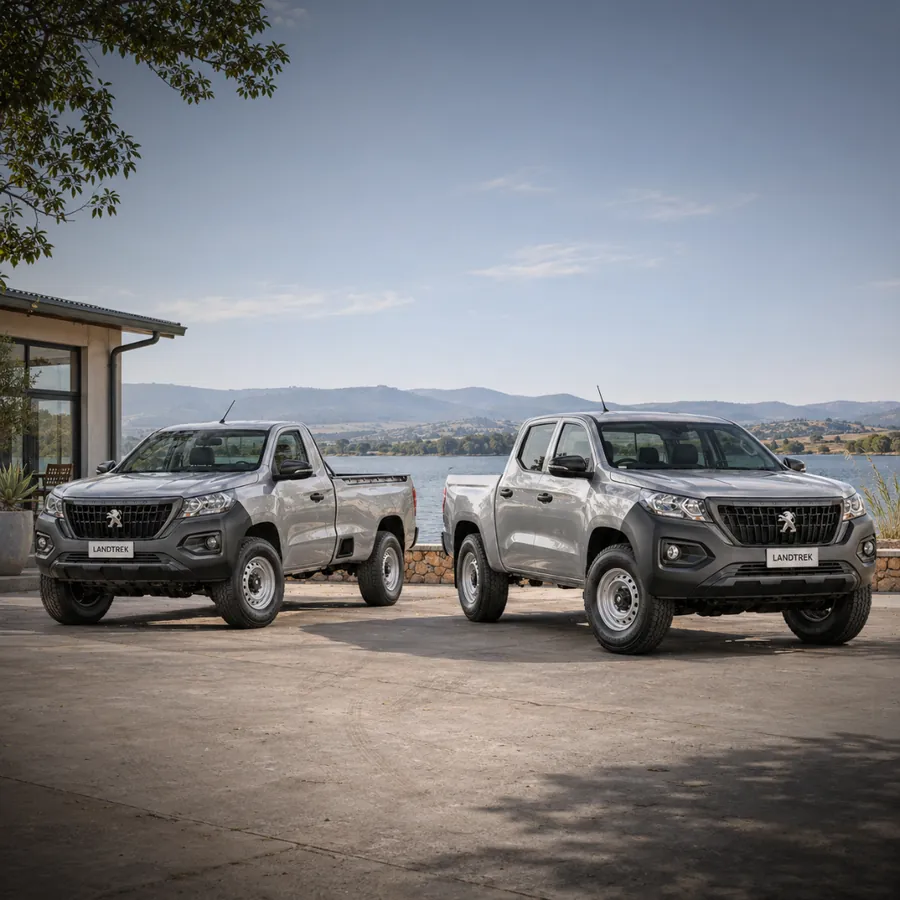
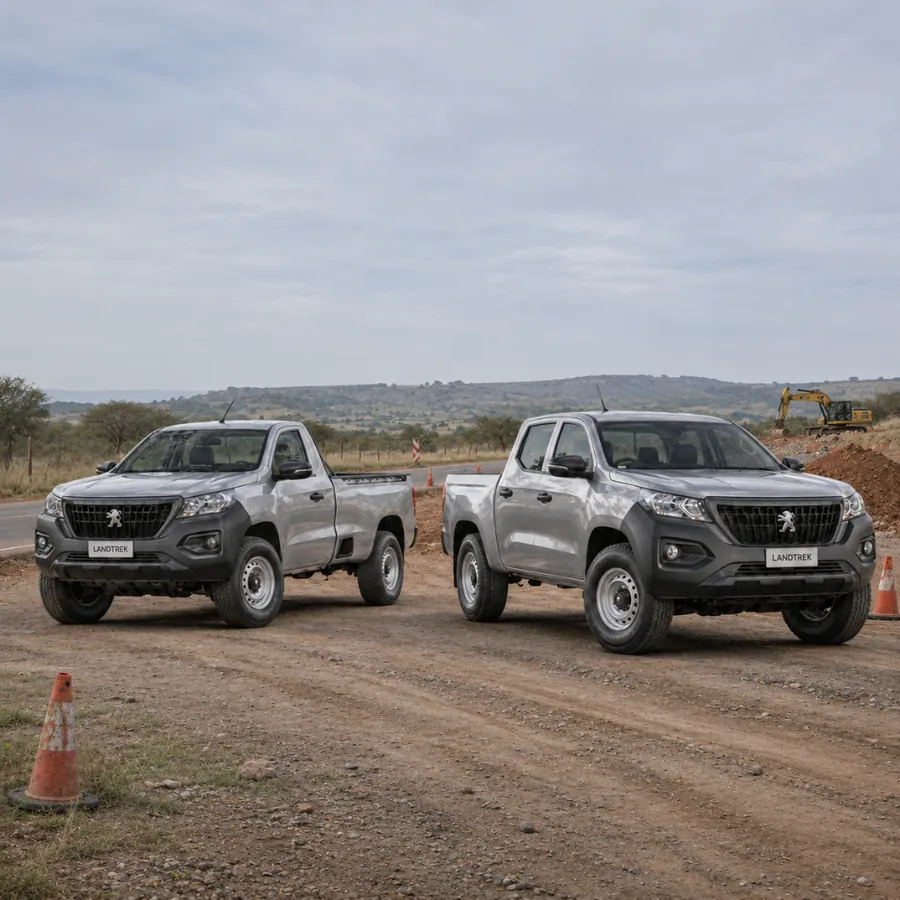
Instalment-led specials show the instalment only everywhere; new Landtrek photo (staging only)
- Aircross Max, C3 Max automatic, Basalt Max, Wrangler Sahara: no purchase price on the slide, card, vehicle page or Google data (special and listing)
- Landtrek specials: new rugged-landscape photo
- Grandland GS Line: Guaranteed Future Value strip carries the 48-month terms
- WhatsApp message no longer quotes a price for a car that shows none

Claude-Session: https://claude.ai/code/session_01FcTL7FakMvcebuqQoa1UVj

diff --git a/index.html b/index.html
@@ -2373,6 +2373,7 @@ html .cc{--cc-font:var(--font);--cc-title-font:var(--display);--cc-title-weight:
       "transmission": "Automatic",
       "fuel": "Petrol",
       "price": 386500,
+      "hidePrice": true,
       "priceMode": "fixed",
       "images": [
         "cars/citroen-aircross-max-0",
@@ -2444,6 +2445,7 @@ html .cc{--cc-font:var(--font);--cc-title-font:var(--display);--cc-title-weight:
       "transmission": "Automatic",
       "fuel": "Petrol",
       "price": 317900,
+      "hidePrice": true,
       "priceMode": "fixed",
       "images": [
         "cars/citroen-c3-max-at-0",
@@ -2514,6 +2516,7 @@ html .cc{--cc-font:var(--font);--cc-title-font:var(--display);--cc-title-weight:
       "transmission": "Automatic",
       "fuel": "Petrol",
       "price": 369900,
+      "hidePrice": true,
       "priceMode": "fixed",
       "images": [
         "cars/citroen-basalt-max-0",
@@ -2561,8 +2564,8 @@ html .cc{--cc-font:var(--font);--cc-title-font:var(--display);--cc-title-weight:
       "promo": {
         "style": "split-rev",
         "image": "site/special-dec26-landtrek",
-        "focus": "50% 55%",
-        "focusMobile": "50% 58%",
+        "focus": "50% 62%",
+        "focusMobile": "50% 62%",
         "tint": "#ecebe8",
         "kicker": "Peugeot",
         "title": "Peugeot Landtrek",
@@ -2595,8 +2598,8 @@ html .cc{--cc-font:var(--font);--cc-title-font:var(--display);--cc-title-weight:
       "promo": {
         "style": "split",
         "image": "site/special-dec26-landtrek",
-        "focus": "50% 55%",
-        "focusMobile": "50% 58%",
+        "focus": "50% 62%",
+        "focusMobile": "50% 62%",
         "tint": "#e8ecef",
         "badge": "R30 000 accessories included",
         "kicker": "Peugeot",
@@ -2714,7 +2717,7 @@ html .cc{--cc-font:var(--font);--cc-title-font:var(--display);--cc-title-weight:
         "note": "R799 900 retail",
         "text": "Panoramic sunroof and wireless Apple CarPlay and Android Auto.",
         "terms": "Price shown includes the maximum deal assistance of R170 000. Includes a 5-year/105 000 km maintenance plan and a 5-year/100 000 km warranty. Ts and Cs apply. While stocks last.",
-        "key": "48-month Guaranteed Future Value | Available subject to finance approval"
+        "key": "48-month Guaranteed Future Value | 0% deposit, 57% guaranteed future value, 7.64% linked interest rate"
       }
     },
     {
@@ -2730,6 +2733,7 @@ html .cc{--cc-font:var(--font);--cc-title-font:var(--display);--cc-title-weight:
       "transmission": "Automatic",
       "fuel": "Petrol",
       "price": 1315900,
+      "hidePrice": true,
       "priceMode": "fixed",
       "images": [
         "cars/jeep-wrangler-sahara-0",
@@ -3536,6 +3540,7 @@ html .cc{--cc-font:var(--font);--cc-title-font:var(--display);--cc-title-weight:
       "transmission": "Automatic",
       "fuel": "Petrol",
       "price": 317900,
+      "hidePrice": true,
       "priceMode": "fixed",
       "images": [
         "cars/citroen-c3-max-at-0",
@@ -3558,6 +3563,7 @@ html .cc{--cc-font:var(--font);--cc-title-font:var(--display);--cc-title-weight:
       "transmission": "Automatic",
       "fuel": "Petrol",
       "price": 386500,
+      "hidePrice": true,
       "priceMode": "fixed",
       "images": [
         "cars/citroen-aircross-max-0",
@@ -3602,6 +3608,7 @@ html .cc{--cc-font:var(--font);--cc-title-font:var(--display);--cc-title-weight:
       "transmission": "Automatic",
       "fuel": "Petrol",
       "price": 369900,
+      "hidePrice": true,
       "priceMode": "fixed",
       "images": [
         "cars/citroen-basalt-max-0",
@@ -3645,6 +3652,7 @@ html .cc{--cc-font:var(--font);--cc-title-font:var(--display);--cc-title-weight:
       "transmission": "Automatic",
       "fuel": "Petrol",
       "price": 1315900,
+      "hidePrice": true,
       "priceMode": "fixed",
       "images": [
         "cars/jeep-wrangler-sahara-0",
@@ -4810,7 +4818,7 @@ const R = (n, cents=false) => {
 const condLabel = c => ({new:'New', demo:'Demo', used:'Pre-owned'})[c];
 const isPOA = v => v.priceMode === 'poa';
 /* Dec 2026: PR = price with the car's own label (v.priceNote, e.g. "excl. VAT"); hasPrice is false for a fixed offer whose retail price is not known yet */
-const hasPrice = v => !isPOA(v) && v.price > 0;
+const hasPrice = v => !isPOA(v) && v.price > 0 && !v.hidePrice;   // hidePrice (Dec 2026): an instalment-led offer shows its instalment only, everywhere
 const PR = v => R(v.price) + (v.priceNote ? ' ' + v.priceNote : '');
 const priceNoteFor = v => v && v.priceNote ? 'Price ' + v.priceNote + '. ' + String(D.priceNote).replace(/^[^.]*incl\. VAT\.\s*/i, '') : D.priceNote;
 const priceText = v => isPOA(v) ? 'Price on request' : hasPrice(v) ? PR(v) : monthlyOf(v) != null ? R(monthlyOf(v)) + ' pm' : 'Price on request';
@@ -4855,7 +4863,7 @@ const SVC_IC = {
   maintenance:'<svg viewBox="0 0 24 24" fill="none" stroke="currentColor" stroke-width="1.8" stroke-linecap="round" stroke-linejoin="round"><path d="M12 3l7 3v5c0 4.5-3 8.2-7 10-4-1.8-7-5.5-7-10V6z"/><path d="M9 12l2 2 4-4"/></svg>'
 };
 const cLink = v => PAGES ? `<a class="c-link" href="${esc(carHref(v))}">${esc(v.title)}</a>` : esc(v.title);
-const waLink = (v) => 'https://wa.me/' + D.whatsapp + '?text=' + encodeURIComponent(v ? `Hi ${D.name}, I'm interested in the ${v.year || ''} ${v.title} ${v.sub} ${v.stock ? ' (stock ' + v.stock + ')' : ''}${isPOA(v) ? '. Please send me the price.' : ' at ' + R(v.price) + '.'} ${carHref(v)}` : `Hi ${D.name}, I have a question.`);
+const waLink = (v) => 'https://wa.me/' + D.whatsapp + '?text=' + encodeURIComponent(v ? `Hi ${D.name}, I'm interested in the ${v.year || ''} ${v.title} ${v.sub} ${v.stock ? ' (stock ' + v.stock + ')' : ''}${isPOA(v) ? '. Please send me the price.' : ' at ' + priceText(v) + '.'} ${carHref(v)}` : `Hi ${D.name}, I have a question.`);
 
 /* ---------- optional: header hides on scroll down, reveals on scroll up ---------- */
 (function headerOnScroll(){
@@ -5012,9 +5020,9 @@ function brandsHTML(){
   const arrow = '<svg viewBox="0 0 24 24" fill="none" stroke="currentColor" stroke-width="2" aria-hidden="true"><path d="M5 12h14M13 6l6 6-6 6"/></svg>';
   const one = (x, i) => {
     const id = String(x.href || '').replace(/^#/, ''), sec = DATA.sections.find(s => s.id === id), cars = sec ? sec.vehicles.map(k => V[k]).filter(Boolean) : [];
-    const from = cars.filter(v => v.price).reduce((m, v) => Math.min(m, v.price), Infinity);
+    const from = cars.filter(hasPrice).reduce((m, v) => Math.min(m, v.price), Infinity);
     const img = x.image || (lu.find(l => l && l.section === id) || {}).image || '';
-    const line = x.line || (cars.length ? `${cars.length} model${cars.length === 1 ? '' : 's'}${isFinite(from) ? ' · from ' + PR(cars.find(v => v.price === from)) : ''}` : '');
+    const line = x.line || (cars.length ? `${cars.length} model${cars.length === 1 ? '' : 's'}${isFinite(from) ? ' · from ' + PR(cars.find(v => hasPrice(v) && v.price === from)) : ''}` : '');
     return `<a class="bg-tile" href="${esc(x.href || '#')}" style="--i:${i}" aria-label="${esc(x.name)}${line ? ', ' + esc(line) : ''}">
       <span class="bg-logo">${x.logo ? `<img src="${IMG(x.logo)}" alt="" loading="lazy">` : `<b>${esc(x.name)}</b>`}</span>
       <span class="bg-car">${img ? `<img src="${SRC(img, 'card')}" data-orig="${IMG(img)}" alt="" loading="lazy">` : ''}</span>
@@ -5239,8 +5247,8 @@ function wireBannerVideos(){
 function lineupHTML(list){
   const items = list.filter(x => x && x.image).map(x => {
     const sec = DATA.sections.find(s => s.id === x.section), cars = sec ? sec.vehicles.map(id => V[id]).filter(Boolean) : [];
-    const from = cars.filter(v => v.price).reduce((m, v) => Math.min(m, v.price), Infinity);
-    const line = x.line || (cars.length ? `${cars.length} model${cars.length === 1 ? '' : 's'}${isFinite(from) ? ', from ' + PR(cars.find(v => v.price === from)) : ''}` : '');
+    const from = cars.filter(hasPrice).reduce((m, v) => Math.min(m, v.price), Infinity);
+    const line = x.line || (cars.length ? `${cars.length} model${cars.length === 1 ? '' : 's'}${isFinite(from) ? ', from ' + PR(cars.find(v => hasPrice(v) && v.price === from)) : ''}` : '');
     return {...x, line};
   });
   if (!items.length) return '';
